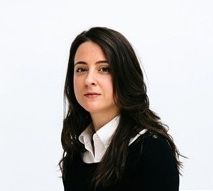
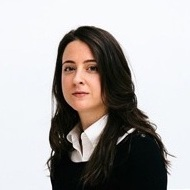
modify speakers

diff --git a/scripts/modalPopup-2019speakers.js b/scripts/modalPopup-2019speakers.js
@@ -7,50 +7,50 @@ var speakerInfo = {
   'barbara-london-company': 'Curator and Writer',
   'barbara-london-bio': "Barbara London is a curator and writer who founded the video and media exhibition and collection programs at The Museum of Modern Art, where she worked between 1973 and 2013. The exhibitions Ms. London organized include one-person shows with media pioneers Nam June Paik, Bill Viola, Steina Vasulka, Joan Jonas, Shigeko Kubota, Peter Campus, Gary Hill, and Laurie Anderson. She was the first U.S. curator to showcase the work of Asian artists Zhang Peili, Song Dong, Teiji Furuhashi, Feng Mengbo, and Yang Fudong. Her thematic projects have included Video from Tokyo to Fukui and Kyoto; New Video from China; Anime!; Looking at Music, parts 1-3; Music Video: the Industry and Its Fringes; and Soundings: A Contemporary Score at MoMA. She also organized the Media City Seoul exhibition in 2000.Ms. London was the first to integrate the Internet as part of curatorial practice. This includes Stir-fry (1994); Internyet (1998); and <a href='http://www.moma.org/dotjp/'>dot.jp</a> (1999.) Ms. London has been an adjunct professor in the Yale Graduate Department of Fine Art for ten years, and is a consultant with the Kadist Foundation. She has just completed Video/Art, the First Fifty Years, a book that Phaidon will publish in January 2020. Her writings have appeared in numerous catalogs and publications, including ArtForum, Yishu, Leonardo, Art Asia Pacific, Art in America, Modern Painter, and Image Forum. Her honors include: Getty Research Institute scholar, 2016; a Courage Award by Eyebeam, 2016; Gertrude Contemporary Residency, Melbourne, 2012; Dora Maar House Residency, Menerbes, 2010; a CEC Artslink award in Poland, 2003; a Japanese government Bunkacho Fellowship, 1992-93; and a National Endowment for the Arts Fellowship, 1988-89.",
   'barbara-london-img': 'url(images/2019/speakers/barbara-london.jpg)',
-  
+
   'tendernet-name': 'Zoe Bachman &#38; Becca Ricks',
   'tendernet-company': 'tendernet',
   'tendernet-bio': "tendernet is a collective of female-identifying artists, writers, engineers, researchers, designers, educators and activists whose work explores speculative design, networked devices, surveillance, and privacy through an intersectional feminist framework. Most recently, the collective has led workshops, produced zines, given talks, and written on topics as diverse as: feminist interfaces and critical design, IoT and privacy, alternatives to Alexa voice assistants, the surveillance of female bodies, and self-tracking & disciplinary power. tendernet consists of Zoe Bachman, Katrina Peterson, and Becca Ricks.",
   'tendernet-img': 'url(images/2019/speakers/tendernet.jpg)',
-  
+
   'karen-krolak-name': 'Karen Krolak',
   'karen-krolak-company': 'Dictionary of Negative Space',
   'karen-krolak-bio': "Karen Krolak is a free range collaborator based in Boston, MA. Since 2000, she has been the co-founder/Artistic Director of Monkeyhouse, an award winning nonprofit that connects communities through choreography. She earned her BA in Linguistics at Northwestern University and her MFA in Interdisciplinary Arts at Sierra Nevada College.  Her ongoing project, <a href='http://www.dictionaryofnegativespace.com'>the Dictionary of Negative Space</a>, has been featured in exhibitions in Nevada, Louisiana, Massachusetts and Korea, as well as in dance collaborations with Monkeyhouse and Scott McPheeters. Recently, she was awarded an I-ARE residency at the Dance Complex in Cambridge, MA and a Newton Cultural Council Grant to become the first artist in residence at the Newton Cemetery in Newton, MA. She will be a presenter at the 2019 New Media Art Conference at the CICA Museum in Gimpo, Korea and was also invited to present at the 14th International Conference on the Social Context on Death, Dying, and Disposal in Bath, England.",
   'karen-krolak-img': 'url(images/2019/speakers/karen-krolak.jpg)',
-  
+
   'danny-chapman-name': 'Danny Chapman',
   'danny-chapman-company': 'Ad Hoc',
   'danny-chapman-bio': "Danny Chapman has over fourteen years experience designing digital services for government. During that time, he has worked on government design projects at the Obama White House, the state governments of Hawaii, Kansas, Wisconsin, Rhode Island, and Pennsylvania. His career in government design began in 2004 working as designer, then later as creative director for RI.gov (the official website for all things Rhode Island government). In 2012-2013, he served as a member of the inaugural class of Presidential Innovation Fellows at the Obama White House. Since then, Danny has gone on to help build the design team at <a href='https://adhoc.team'>Ad Hoc</a> — a startup focused on building and maintaining government digital services. Ad Hoc is currently focused on healthcare.gov, and VA.gov — a platform of human centered digital services for Veterans.",
   'danny-chapman-img': 'url(images/2019/speakers/danny-chapman.jpg)',
-  
+
   'deroy-peraza-name': 'Deroy Peraza',
   'deroy-peraza-company': 'HYPERAKT',
   'deroy-peraza-bio': "Deroy was born in Havana, Cuba, grew up in Miami, fell in love with design in Barcelona and is living the dream in Brooklyn. A founding partner and creative director at Hyperakt, a purpose-driven design studio, he has nearly two decades of experience working for large brands with global impact, small ones with big hearts, and everything in between. His work has been featured in many places, he has lectured at prominent universities, but most importantly, he has always been obsessed with using design in service of creating a more vibrant, inclusive and equitable society.",
   'deroy-peraza-img': 'url(images/2019/speakers/deroy-peraza.jpg)',
-  
+
   'irene-alvarado-name': 'Irene Alvarado',
   'irene-alvarado-company': 'Google Creative Lab',
   'irene-alvarado-bio': "Irene Alvarado is a creative technologist and UX designer at Google Creative Lab. She works across the domains of computer science and design to explore how emerging technologies will shape new products, services, and creative tools. Previously Irene worked as a UX engineer at Mapzen, helping create open-source maps, and as a developer on Terrapattern, a visual search tool for satellite imagery. She studied Computer Science at Columbia University and Human Computer Interaction at Carnegie Mellon.",
   'irene-alvarado-img': 'url(images/2019/speakers/irene-alvarado.jpg)',
-  
+
   'alex-chen-name': 'Alex Chen',
   'alex-chen-company': 'Web Accessibility Designer',
   'alex-chen-bio': "Alex is a designer, writer, and martial artist based in Chicago. By day, they are designing audio configuration software, specializing in user research, customer journeys, and accessibility. On the side, they write about how design and tech relate directly to ethics and oppression, with a focus on queer and trans, disabled, and POC (people of color) experiences. When they’re not working or sleeping, you can find them in the gym training martial arts. They got their BFA in Industrial Design at RISD (Rhode Island School of Design) in 2015 and have been practicing focused self-care ever since.",
   'alex-chen-img': 'url(images/2019/speakers/alex-chen.jpg)',
-  
-  //  'pinar-guvenc-name': 'Pinar Guvenc',
-  //  'pinar-guvenc-company': 'Open Style Lab',
-  //  'pinar-guvenc-bio': "Established in 2014, Open Style Lab (OSL) is 501(c)3 organization dedicated to creating functional wearable solutions for people of all abilities without compromising on style. We team designers, engineers, and occupational therapists to conceive and build accessible wearables that address the needs with and for people with disabilities. Our mission is for all people to have access to style, regardless of cognitive & physical ability.",
-  //  'pinar-guvenc-img': 'url(images/2019/speakers/pinar-guvenc.jpg)',
-  
+
+  'pinar-guvenc-name': 'Pinar Guvenc',
+  'pinar-guvenc-company': 'Open Style Lab &#38; Eray Carbajo',
+  'pinar-guvenc-bio': "After earning her BSc in Industrial Engineering from Bilkent University and MSc in Economics & Finance from Southern Illinois University, Pinar worked at New York Grant Company as a Senior Consultant, specializing in economic incentives and grants for real estate development, job creation and technology innovation. In 2013, she co-founded New York Functional Furniture – an e-commerce platform for functional furniture designed in NYC. She set up the corporate and logistical infrastructure in NYC and managed the business operations. After its showroom opening in NYC January 2015, the company was acquired by Lazzoni USA, an international furniture manufacturer and retailer. <br/>In 2014, she co-founded Sponge Inc., a clean-tech innovation firm, developing unique materials to provide effective environmental clean up for the oil & gas industry, along with applications in construction and manufacturing. Since its launch, it has won three international awards, and has been accepted to EU’s Climate KIC Accelerator in Netherlands and Google’s Plug and Play Incubator in California, USA. <br/>Since early 2015, Pinar manages business operations and commercialization efforts at Eray/Carbajo, an international architecture and design studio based in NYC and Istanbul. Understanding the value of strategic collaborations, she built and teaches a strategic collaboration workshop series for Made in NYC initiative and Pratt Center for Community Development. Pinar also serves on the board of directors of Open Style Lab, a nonprofit organization originated at MIT, based in Parsons New School, with the purpose of making style accessible to people of all abilities.",
+  'pinar-guvenc-img': 'url(images/2019/speakers/pinar-guvenc.jpg)',
+
   'brendan-ciecko-name': 'Brendan Ciecko',
   'brendan-ciecko-company': 'Cuseum',
   'brendan-ciecko-bio': "Brendan Ciecko is the founder and CEO of Cuseum, a platform that helps museums and cultural organizations engage their visitors, members, and patrons. Ciecko has been building technology since the age of 11 and has been recognized by Inc. Magazine as being one of America’s top entrepreneurs under 30. Ciecko has been featured in The New York Times, WIRED, Fast Company, Entrepreneur, TechCrunch, VentureBeat, Esquire, and PC Magazine for his work in design, technology, and business. In addition, Ciecko currently sits on the Steering Committee of the Museum Council at the Museum of Fine Arts, Boston, the Digital Advisory Board at the Neue Galerie New York, and the Community Advisory Board for the Massachusetts International Festival of the Arts. He holds 4 patents in the area of mobile technology.",
   'brendan-ciecko-img': 'url(images/2019/speakers/brendan-ciecko.jpg)',
-  
+
   'kevin-yoo-name': 'Kevin Yoo',
   'kevin-yoo-company': 'WearWorks',
-  'kevin-yoo-bio': "Kevin Yoo is a serial entrepreneur with a background in industrial design from Pratt Institute. Yoo has gained international recognition and awards for pushing sustainability, design and technical innovations forward. Winning competitions such as the Bauhaus Award, German Design Award, National Science Foundation and more. He focuses on social and positive impacts at large scale, yet working closely with the end users to generate long lasting, meaningful products. Yoo has fully patented several technologies and designs, which includes a novel wearable for precise navigation utilizing only the sense of touch called the Wayband.",
+  'kevin-yoo-bio': "Kevin Yoo is a serial entrepreneur with a background in industrial design from Pratt Institute. Yoo has gained international recognition and awards for pushing sustainability, design and technical innovations forward. Winning competitions such as the Bauhaus Award, German Design Award, National Science Foundation and more. He focuses on social and positive impacts at large scale, yet working closely with the end users to generate long lasting, meaningful products. Yoo has fully patented several technologies and designs, which includes a novel wearable for precise navigation utilizing only the sense of touch called the Wayband. The Wayband made history in 2017, by guiding the first blind man run in the NYC marathon, completely unassisted. We were featured by some of the most prestigious channels, such as front page in The NewYork Times the day of the marathon, a Discovery Channel Documentary and TED Talk showcasing the future of wearables. He is the founder of <a href='https://www.wear.works/'>WearWorks</a>, a haptic design company and <a href='https://www.pewterfurniture.com/'>PewterCollection</a>, making sustainable one-off furniture from reclaimed wood. Yoo has <a href='https://www.metmuseum.org/blogs/in-season/2015/a-tasty-take-on-medieval-rosary-beads'>exhibited</a> at the Metropolitan Museum for merging art and technology utilizing state of the art, edible 3D-printing techniques to experience art through taste for those who are visually impaired. Recently exhibiting at the CooperHewitt for 1 year for assistive technology, Yoo encourages products that help people.",
   'kevin-yoo-img': 'url(images/2019/speakers/kevin-yoo.png)',
 
   'clare-stanton-name': 'Clare Stanton',

diff --git a/conference2019.html b/conference2019.html
@@ -475,7 +475,17 @@ On Protest, Art & Activism is presented by David Winton Bell Gallery and Brown A
                 <p class="companyTag">Ycenter</p>
               </div>
             </div>
-
+            
+            <div class="personProfile" id="pinar-guvenc">
+              <a rel="leanModal" onclick="populateModalNoLink($(this)); return true;" class="personLink-img" href="#modalPopupNoLink"></a>
+              <img class="personImg-border" src="images/circleBorder-blue.svg" />
+              <br />
+              <div class="tags" id="pinar-guvenc-d">
+                <a rel="leanModal" onclick="populateModalNoLink($(this)); return true;" class="personLink-txt" href="#modalPopupNoLink">Pinar Guvenc</a>
+                <p class="companyTag">Open Style Lab &#38; Eray Carbajo</p>
+              </div>
+            </div>
+            
             <div class="moreSpeakers">More speakers to come! Stay tuned.</div>
           </div>
 

diff --git a/styles/conference_2019.css b/styles/conference_2019.css
@@ -171,6 +171,10 @@
   }
 }
 
+.bio a {
+  text-decoration-line: none;
+}
+
 #barbara-london .personLink-img {
   background: linear-gradient(transparent, transparent),
     url('../images/2019/speakers/barbara-london.jpg') no-repeat;
@@ -296,5 +300,13 @@
     url('../images/2019/speakers/brendan-ciecko.jpg') no-repeat;
   background: -webkit-linear-gradient(transparent, transparent),
     url('../images/2019/speakers/brendan-ciecko.jpg') no-repeat;
+  background-size: contain;
+}
+
+#pinar-guvenc .personLink-img {
+  background: linear-gradient(transparent, transparent),
+    url('../images/2019/speakers/pinar-guvenc.jpg') no-repeat;
+  background: -webkit-linear-gradient(transparent, transparent),
+    url('../images/2019/speakers/pinar-guvenc.jpg') no-repeat;
   background-size: contain;
 }
